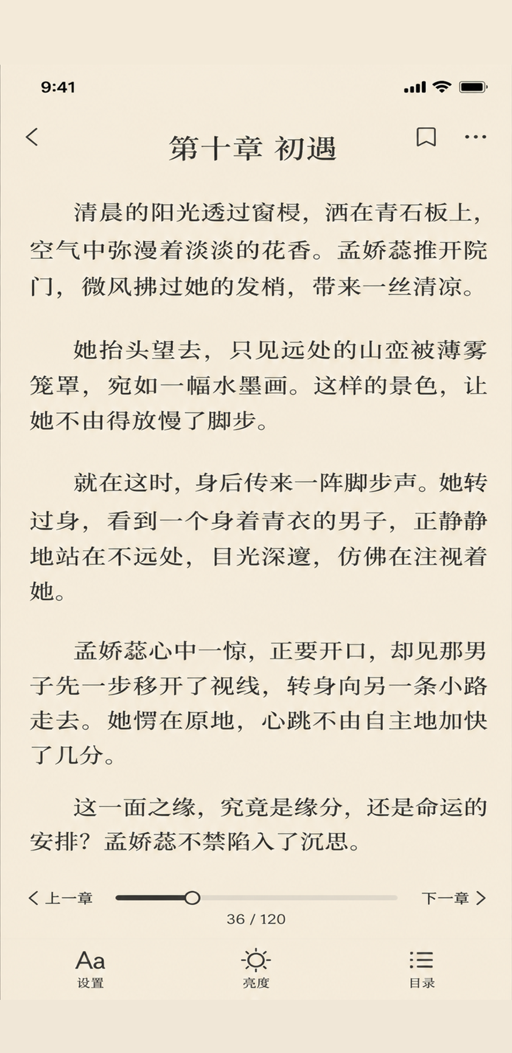
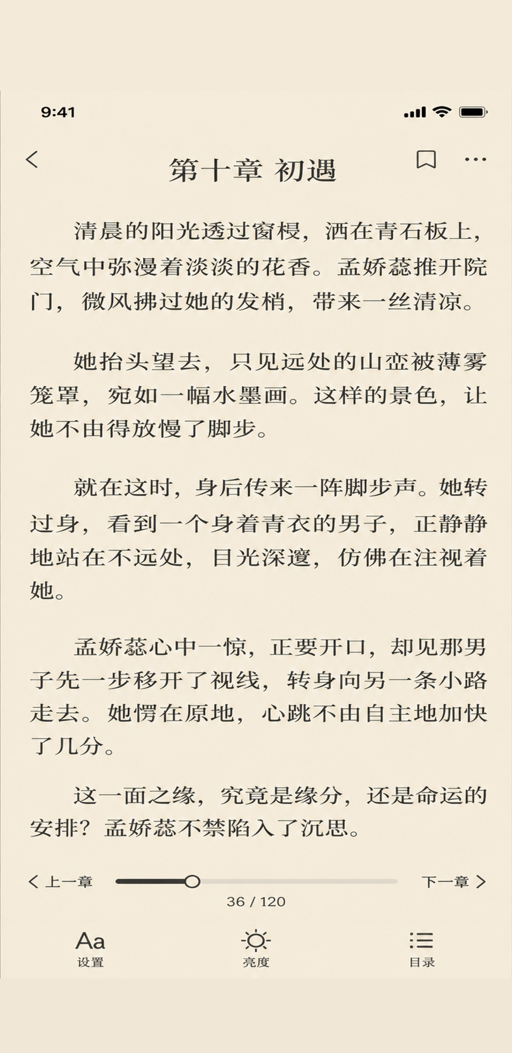
手机屏幕比例修正为真实 iPhone 值 19.5:9，图片归一化同步

diff --git a/src/App.tsx b/src/App.tsx
@@ -133,7 +133,7 @@ function Phone({ img, alt, className = "" }: { img: string; alt: string; classNa
     <div
       className={`overflow-hidden rounded-[42px] border-[8px] border-[#1c1c24] bg-[#1c1c24] shadow-[0_28px_70px_-18px_rgba(0,0,0,0.5)] ${className}`}
     >
-      <div className="relative" style={{ aspectRatio: "9 / 18.5" }}>
+      <div className="relative" style={{ aspectRatio: "19.5 / 9" }}>
         <span className="absolute left-1/2 top-2.5 z-10 h-[16px] w-[68px] -translate-x-1/2 rounded-full bg-[#1c1c24]" />
         <img
           src={img}
